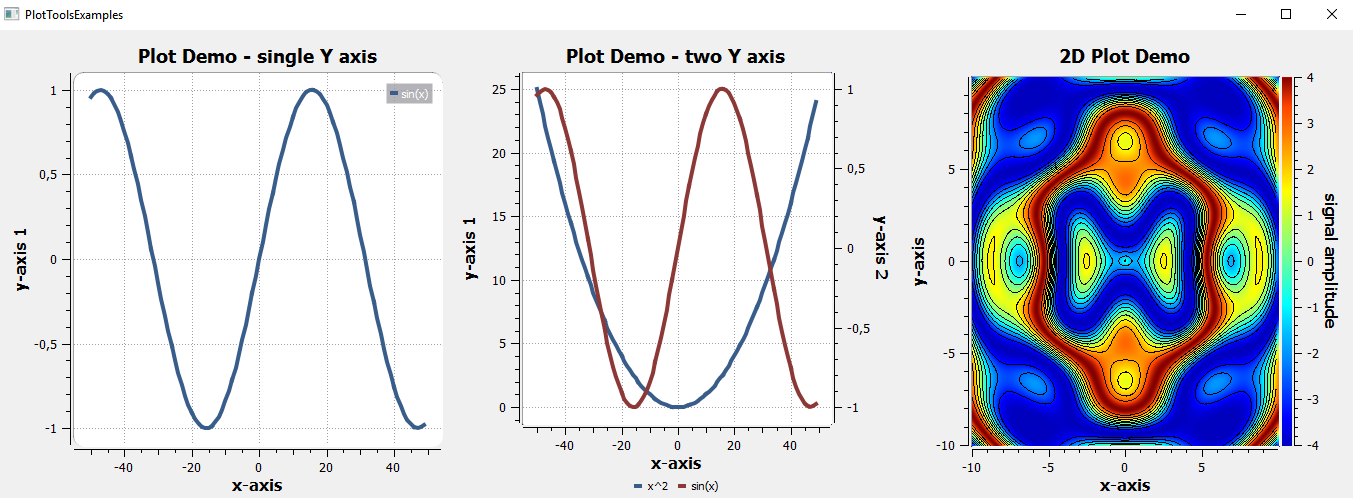
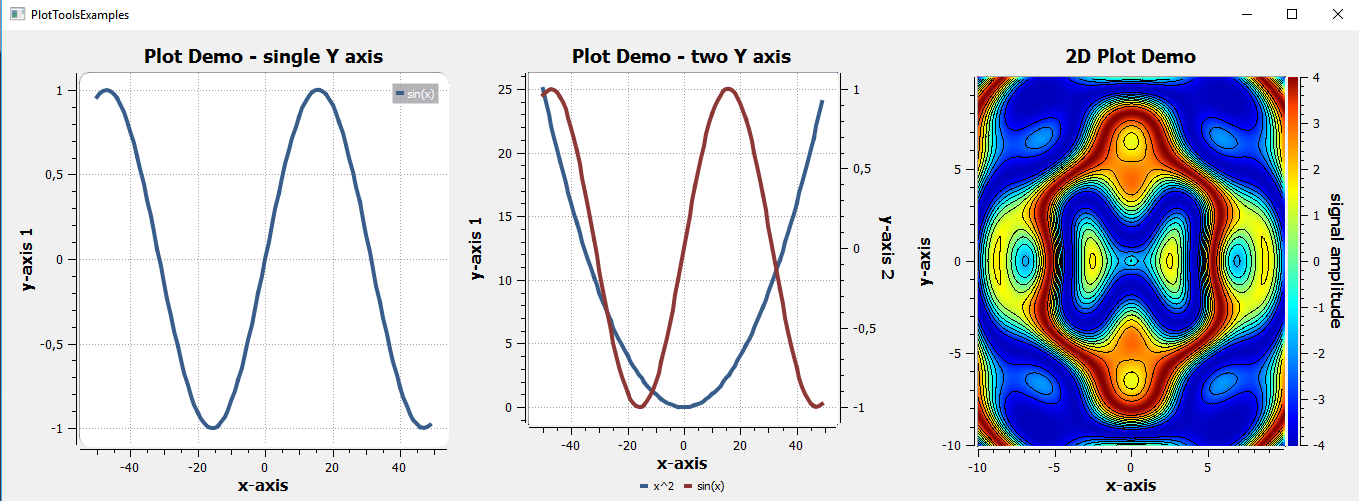
added scale options to zoomer fixed reset zoombase

diff --git a/libdev/plot/plottools/trunk/src/qbaseplotwidget.h b/libdev/plot/plottools/trunk/src/qbaseplotwidget.h
@@ -16,6 +16,7 @@
 #include <qwt_scale_widget.h>
 #include <qwt_scale_draw.h>
 #include <qwt_plot_grid.h>
+#include <qwt_text_label.h>
 
 #include <QPrinter>
 #include <QPrintDialog>
@@ -75,7 +76,21 @@ public:
         QwtPlot::setFrameStyle(QFrame::NoFrame);
         QwtPlot::plotLayout()->setAlignCanvasToScales(true);
 
-        // set axis scale
+        // reduce giant font size to standard font size on title and labels
+        QFont font = QFont(fontInfo().family(), fontInfo().pointSize(), QFont::Normal);
+        this->titleLabel()->setFont(font);
+        this->axisWidget(QwtPlot::xTop)->setFont(font);
+        this->axisWidget(QwtPlot::xBottom)->setFont(font);
+        this->axisWidget(QwtPlot::yLeft)->setFont(font);
+        this->axisWidget(QwtPlot::yRight)->setFont(font);
+
+        QwtText text;
+        text.setFont(font);
+        this->setAxisTitle(QwtPlot::xBottom, text);
+        this->setAxisTitle(QwtPlot::xBottom,text);
+        this->setAxisTitle(QwtPlot::yLeft,text);
+        this->setAxisTitle(QwtPlot::yRight,text);
+
         QwtPlot::setAxisAutoScale(QwtPlot::xBottom);
         QwtPlot::setAxisAutoScale(QwtPlot::yLeft);
         QwtPlot::setAxisAutoScale(QwtPlot::yRight);
@@ -120,10 +135,70 @@ public:
             delete m_grid;
     }
 
+    //! overwrites `QwtPlot::setAxisScale`
+    //! applies scale to zoomer
+    void setAxisScale (int axisId, double min, double max, double step = 0)
+    {
+        QwtPlot::setAxisScale(axisId, min, max, step);
+        // autoscale must be set on both zoomer,
+        // because they do not know each other.
+        switch (static_cast<QwtPlot::Axis>(axisId))
+        {
+        case xBottom:
+            this->zoomerY1()->setAxisScale(QwtPlot::xBottom, min, max);
+            this->zoomerY2()->setAxisScale(QwtPlot::xBottom, min, max);
+            break;
+        case yLeft:
+            this->zoomerY1()->setAxisScale(QwtPlot::yLeft, min, max);
+            this->zoomerY2()->setAxisScale(QwtPlot::yLeft, min, max);
+            break;
+        case yRight:
+            this->zoomerY1()->setAxisScale(QwtPlot::yRight, min, max);
+            this->zoomerY2()->setAxisScale(QwtPlot::yRight, min, max);
+            break;
+        case xTop:
+            this->zoomerY1()->setAxisScale(QwtPlot::xTop, min, max);
+            this->zoomerY2()->setAxisScale(QwtPlot::xTop, min, max);
+            break;
+        case axisCnt: break;
+        }
+    }
+
+    //! overwrites `QwtPlot::setAxisAutoScale`
+    //! deletes scale to zoomer
+    void setAxisAutoScale( int axisId, bool on = true )
+    {
+        QwtPlot::setAxisAutoScale(axisId, on);
+        if (on) {
+            // autoscale must be reset on both zoomer,
+            // because they do not know each other.
+            switch (static_cast<QwtPlot::Axis>(axisId))
+            {
+            case xBottom:
+                this->zoomerY1()->setAxisAutoScale(QwtPlot::xBottom);
+                this->zoomerY2()->setAxisAutoScale(QwtPlot::xBottom);
+                break;
+            case yLeft:
+                this->zoomerY1()->setAxisAutoScale(QwtPlot::yLeft);
+                this->zoomerY2()->setAxisAutoScale(QwtPlot::yLeft);
+                break;
+            case yRight:
+                this->zoomerY1()->setAxisAutoScale(QwtPlot::yRight);
+                this->zoomerY2()->setAxisAutoScale(QwtPlot::yRight);
+                break;
+            case xTop:
+                this->zoomerY1()->setAxisAutoScale(QwtPlot::xTop);
+                this->zoomerY2()->setAxisAutoScale(QwtPlot::xTop);
+                break;
+            case axisCnt: break;
+            }
+        }
+    }
+
     //! Zoomer for Y1 axis
     //!
     //! \return pointer to QwtPlotZoomer
-    QwtPlotZoomer * zoomerY1() const
+    QPlotZoomer * zoomerY1() const
     {
         return m_zoomerY1;
     }
@@ -131,7 +206,7 @@ public:
     //! Zoomer for Y2 axis
     //!
     //! \return pointer to QwtPlotZoomer
-    QwtPlotZoomer * zoomerY2() const
+    QPlotZoomer * zoomerY2() const
     {
         return m_zoomerY2;
     }
@@ -187,8 +262,8 @@ public:
 
 
 private:
-    QwtPlotZoomer * m_zoomerY1;
-    QwtPlotZoomer * m_zoomerY2;
+    QPlotZoomer * m_zoomerY1;
+    QPlotZoomer * m_zoomerY2;
     QwtPlotGrid * m_grid;
     QwtPlotCanvas * m_canvas;
 };

diff --git a/libdev/plot/plottools/trunk/src/qplotzoomer.h b/libdev/plot/plottools/trunk/src/qplotzoomer.h
@@ -12,7 +12,19 @@
 #include <qwt_plot.h>
 #include <qwt_plot_zoomer.h>
 
+#include <QMap>
+#include <array>
+
 //#define DEBUG_QPLOTEXT 1
+
+struct PlotScale{
+public:
+    PlotScale() {}
+    PlotScale(double new_min, double new_max): min(new_min), max(new_max) {}
+    double min;
+    double max;
+};
+
 
 /*!
     \class QPlotZoomer
@@ -73,6 +85,21 @@ public:
 
     }
 
+    //! Set manual scale that must be used by zoomer
+    void setAxisScale (int axisId, double min, double max)
+    {
+        // insert or change value in map
+        mapScale.insert(axisId, PlotScale (min, max));
+    }
+
+    //! Set scale to auto, so that zoomer does not fix a manual scale
+    //! Only necessary if a manual scale was applied.
+    void setAxisAutoScale (int axisId)
+    {
+        // remove axisID from map
+        mapScale.remove(axisId);
+    }
+
 
 private slots:
     /*!
@@ -92,8 +119,20 @@ private slots:
         // zoomed state and state is at the initual size
         if ( zoomRectIndex() == 0 && zoomStack().size() > 1 )
         {
-            m_plot->setAxisAutoScale(xAxis());
-            m_plot->setAxisAutoScale(yAxis());
+            std::array<int,4> axisIDs = {QwtPlot::yLeft,
+                                         QwtPlot::yRight,
+                                         QwtPlot::xBottom,
+                                         QwtPlot::xTop};
+            // iterate over all axis Ids
+            for (auto &axisID : axisIDs)
+            {
+                if ( mapScale.contains(axisID) ) {
+                    PlotScale scale = mapScale[axisID];
+                    m_plot->setAxisScale(axisID, scale.min, scale.max);
+                } else {
+                    m_plot->setAxisAutoScale(axisID);
+                }
+            }
             setZoomBase(true);
         }
         debugZoomerStack();
@@ -134,7 +173,7 @@ private:
 
 private:
     QwtPlot * m_plot;
-
+    QMap<int, PlotScale> mapScale;
 };
 
 

diff --git a/libdev/plot/plottools/trunk/src/qlineplot.h b/libdev/plot/plottools/trunk/src/qlineplot.h
@@ -114,6 +114,20 @@ public:
         return curveList;
     }
 
+    //! Return pointer of attached QPlotCurve
+    //!
+    //! \return QPlotCurve pointer
+    QPlotCurve* curve(size_t index)
+    {
+        std::vector<QPlotCurve*> curvePointerList = curves();
+        if (!(index < curvePointerList.size())) {
+            qFatal(QString("QPlotCurve: requested curve at index %1, but maximum number is %2").arg(index).arg(curvePointerList.size()).toLatin1());
+        }
+
+        return curvePointerList[index];
+    }
+
+
 
     //! set margin for all curves, used in QPlotCurve to define a margin
     //! to the axis boundaries
@@ -151,26 +165,30 @@ public:
 
     }
 
-    //! delete all PlotItems (and thus also curves) from the plot
+    //! delete all QPlotCurve items from the plot
     void clear()
     {
         QList<QwtPlotItem *> listItems = this->itemList();
         for( int i=0; i<listItems.count(); ++i )
         {
-            listItems[i]->detach();
-            delete listItems[i];
+            // delete only QPlotCurve
+            QPlotCurve* derived = dynamic_cast<QPlotCurve*>(listItems[i]);
+            if (derived) {
+                listItems[i]->detach();
+                delete listItems[i];
+            }
         }
     }
 
 
-    //! overwrites `QwtPlot::setAxisScale`
+    //! overwrites `QBasePlotWidget::setAxisScale`
     //! uses the internal margin value to correct the scale
-    void setAxisScale (int axisId, double min, double max, double step)
+    void setAxisScale (int axisId, double min, double max, double step = 0)
     {
         double margin = (max-min)* m_marginPercentage;
         min = min - margin;
         max = max + margin;
-        QwtPlot::setAxisScale(axisId, min, max, step);
+        QBasePlotWidget::setAxisScale(axisId, min, max, step);
     }
 
 private:

diff --git a/libdev/plot/plottools/trunk/examples/plottoolstest.cpp b/libdev/plot/plottools/trunk/examples/plottoolstest.cpp
@@ -23,7 +23,6 @@ QWidget * createLinePlot(vector<double> & x, vector<double> & y1)
     /// first plot (single line)
     QLinePlot * plot1 = new QLinePlot();
     plot1->setTitle( "Plot Demo - single Y axis" );
-    plot1->canvas()->setBorderRadius( 10 );
 
     // legend item
     QwtPlotLegendItem * legendItem = new QwtPlotLegendItem();

diff --git a/libdev/plot/plottools/trunk/examples/functions/functions.h b/libdev/plot/plottools/trunk/examples/functions/functions.h
@@ -5,6 +5,7 @@
 #include "constants.h"
 #include <cmath>
 #include <float.h>
+//#include <QDebug>
 
 namespace PlotFunction
 {
